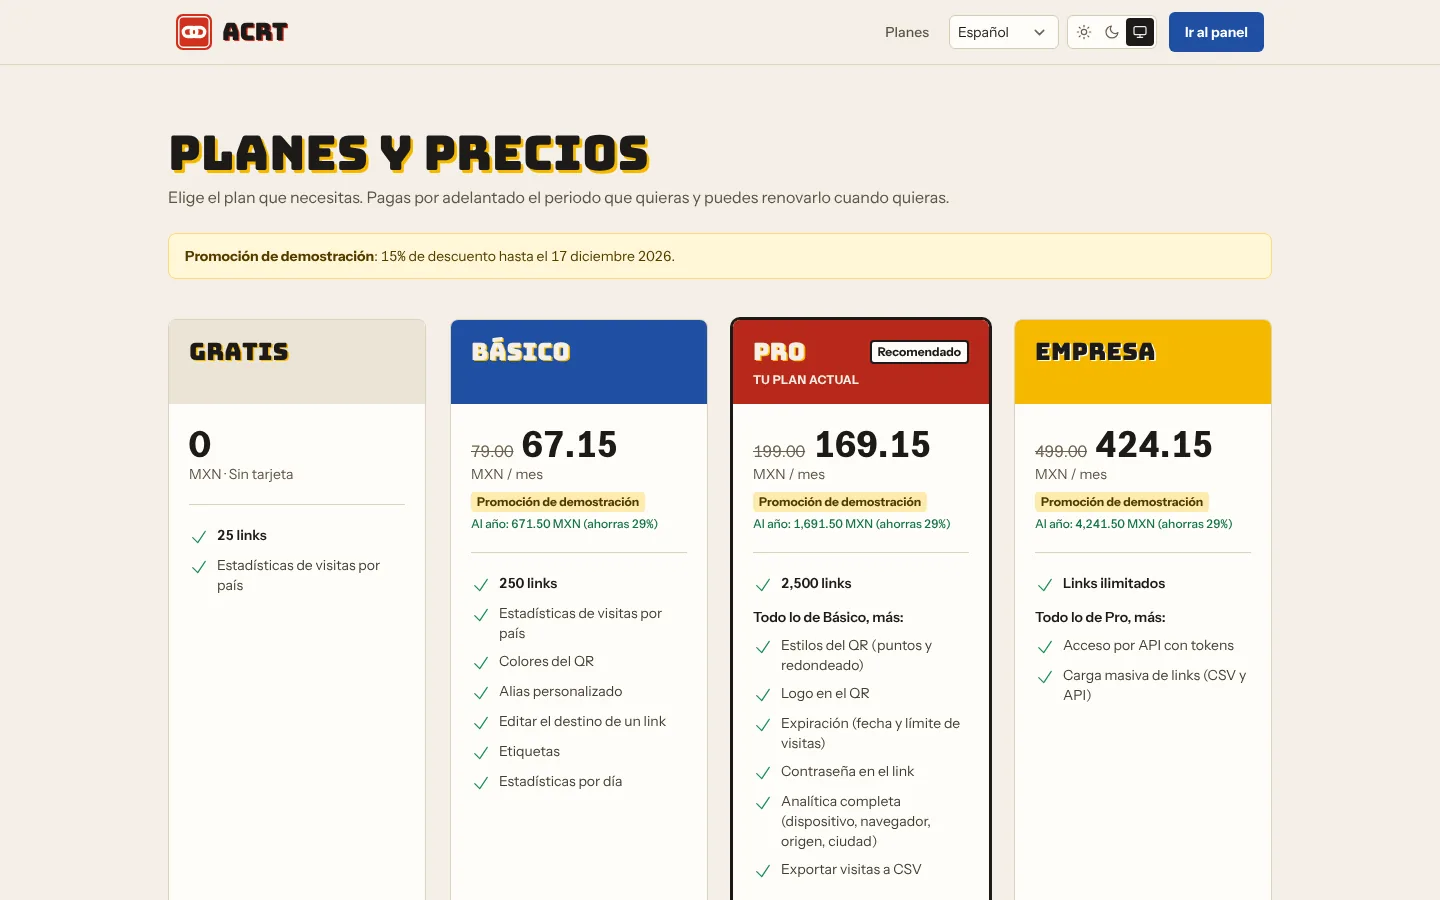
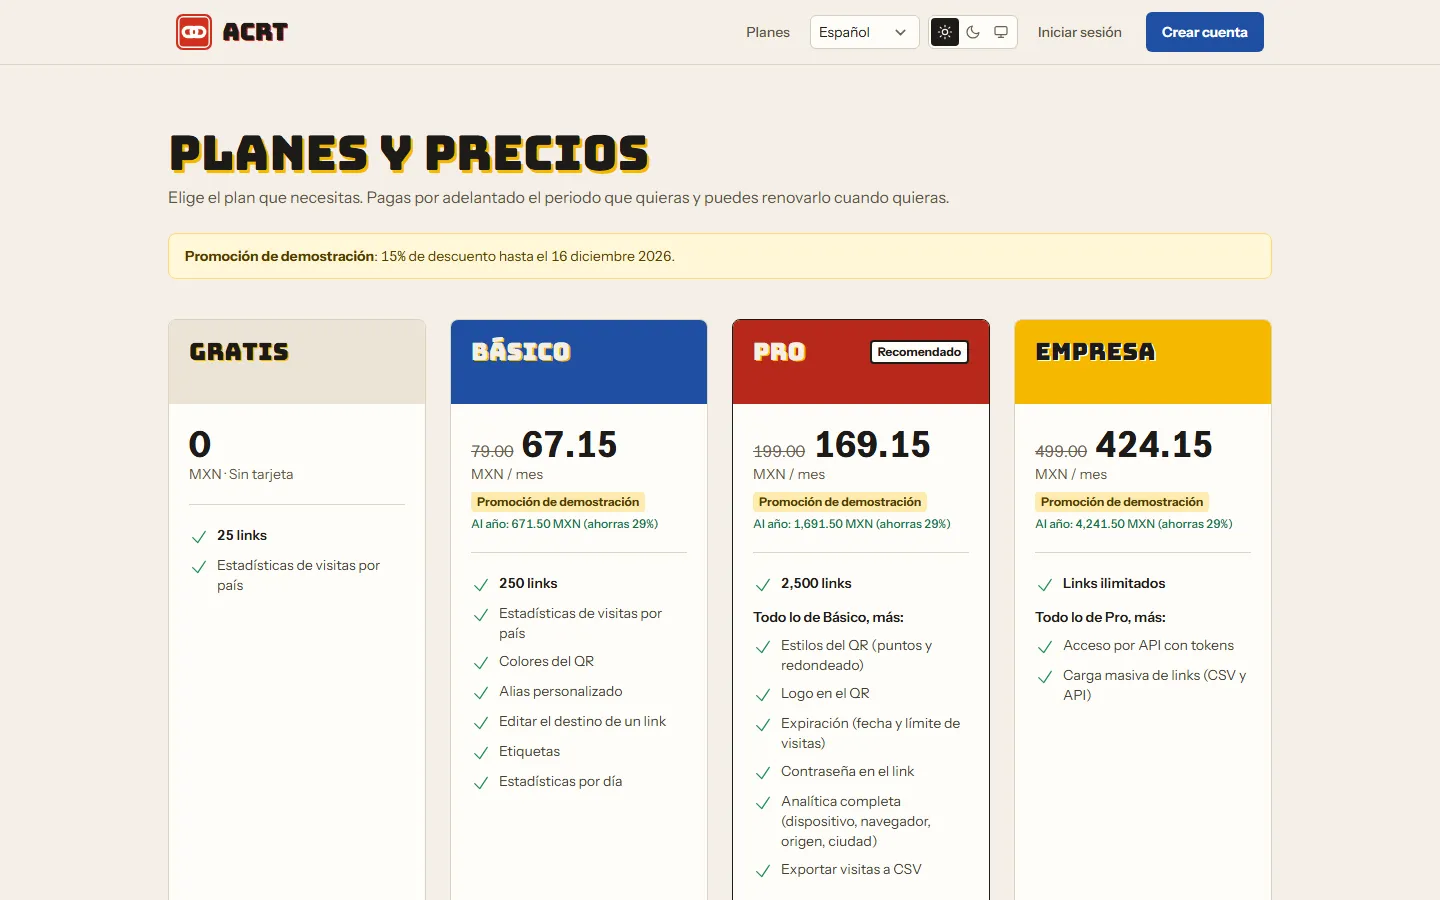
Actualiza capturas de acrt y agrega 19 vistas: landings, constructor y administración

diff --git a/portafolio/index.html b/portafolio/index.html
@@ -61,8 +61,12 @@ ul.points li::marker{color:var(--accent)}
 .thumbs button{border:1px solid var(--line);background:var(--surface);padding:0;border-radius:6px;overflow:hidden;cursor:pointer;width:clamp(64px,18%,120px);opacity:.65}
 .thumbs button:hover{opacity:.9}
 .thumbs button[aria-pressed="true"]{opacity:1;outline:2px solid var(--accent);outline-offset:1px}
-.thumbs img{display:block;width:100%;aspect-ratio:16/10;object-fit:cover;object-position:top}
+.thumbs img{display:block;width:100%;height:auto;aspect-ratio:16/10;object-fit:cover;object-position:top}
 .caption{font-size:.85rem;color:var(--muted)}
+.shot-title{margin:0;font:600 .82rem/1.3 var(--mono);color:var(--ink)}
+.thumbs .grp{flex-basis:100%;font:600 .7rem/1.2 var(--mono);letter-spacing:.08em;text-transform:uppercase;color:var(--muted);margin-top:.35rem}
+.thumbs .grp:first-child{margin-top:0}
+.gallery .phones{margin-top:.5rem}
 .phones{display:grid;grid-template-columns:repeat(auto-fit,minmax(min(100%,150px),1fr));gap:clamp(.6rem,1.5vw,1rem);align-items:start}
 .phone{margin:0;display:grid;gap:.45rem}
 .phone .scr{border:5px solid var(--navy-2);border-radius:22px;overflow:hidden;background:var(--navy-2);box-shadow:var(--shadow)}
@@ -317,8 +321,8 @@ pre.code .c{color:#7f93ad} pre.code .k{color:#ffb27a} pre.code .s{color:#8fd3c1}
     <span class="status"><span class="es">En producción · Web + API</span><span class="en">In production · Web + API</span></span>
     <h2><span class="es">Acortador de enlaces con QR y analítica</span><span class="en">Link shortener with QR codes and analytics</span></h2>
     <p class="summary">
-      <span class="es">Cada persona crea enlaces cortos de seis caracteres, ve sus visitas por día, país, ciudad, dispositivo y navegador, y descarga el código QR. Está disponible en español, inglés, portugués y francés, y se usa desde el navegador o desde una API con tokens.</span>
-      <span class="en">Each person creates six-character short links, sees visits per day, country, city, device and browser, and downloads the QR code. It is available in Spanish, English, Portuguese and French, and can be used from the browser or from a token-based API.</span>
+      <span class="es">Cada persona crea enlaces cortos de seis caracteres, ve sus visitas por día, país, ciudad, dispositivo y navegador, y descarga el código QR. Está disponible en español, inglés, portugués y francés, y se usa desde el navegador o desde una API con tokens. Un panel de administración maneja planes, usuarios, promociones, cupones, pagos y las landings públicas.</span>
+      <span class="en">Each person creates six-character short links, sees visits per day, country, city, device and browser, and downloads the QR code. It is available in Spanish, English, Portuguese and French, and can be used from the browser or from a token-based API. An administration panel handles plans, users, promotions, coupons, payments and the public landing pages.</span>
     </p>
     <dl class="brief">
       <div><dt><span class="es">El reto</span><span class="en">The challenge</span></dt><dd><span class="es">Ofrecer un acortador con analítica y QR que cobre por periodo, sin suscripciones automáticas, y que siga siendo barato de atender en un hosting compartido aunque crezca el tráfico.</span><span class="en">Offer a shortener with analytics and QR codes that charges by period, without automatic subscriptions, and that stays cheap to serve on shared hosting as traffic grows.</span></dd></div>
@@ -330,7 +334,8 @@ pre.code .c{color:#7f93ad} pre.code .k{color:#ffb27a} pre.code .s{color:#8fd3c1}
       <li><span class="es">Analítica con gráfica diaria, desgloses por país y dispositivo, bots separados de personas y exportación a CSV en el plan Pro.</span><span class="en">Analytics with a daily chart, breakdowns by country and device, bots kept apart from people, and CSV export on the Pro plan.</span></li>
       <li><span class="es">Código QR personalizable (colores con contraste verificado, estilos y logo) con descarga en PNG y SVG.</span><span class="en">Customizable QR code (colors with verified contrast, styles and logo) downloadable as PNG and SVG.</span></li>
       <li><span class="es">Planes con funciones activables por plan, cupones y promociones, y pagos por periodo prepagado con Stripe Checkout y Mercado Pago, con webhooks firmados.</span><span class="en">Plans with features enabled per plan, coupons and promotions, and prepaid period payments with Stripe Checkout and Mercado Pago, using signed webhooks.</span></li>
-      <li><span class="es">API REST con tokens y permisos por ruta, carga masiva desde CSV con revisión previa y más de 370 pruebas automatizadas.</span><span class="en">REST API with tokens and per-route permissions, bulk CSV import with a preview step, and more than 370 automated tests.</span></li>
+      <li><span class="es">API REST con tokens y permisos por ruta, carga masiva desde CSV con revisión previa y más de 400 pruebas automatizadas.</span><span class="en">REST API with tokens and per-route permissions, bulk CSV import with a preview step, and more than 400 automated tests.</span></li>
+      <li><span class="es">Constructor de landings por bloques solo para administración: 10 diseños con animaciones propias, borrador que se guarda solo, vista previa en vivo, versiones y publicación; el contenido se valida como datos, nunca como código.</span><span class="en">Administrators-only block-based landing builder: 10 designs with their own animations, an autosaved draft, live preview, versions and publishing; content is validated as data, never as code.</span></li>
     </ul>
     <div class="chips"><span>Laravel 13</span><span>Livewire 4</span><span>Jetstream</span><span>Sanctum</span><span>Tailwind CSS 4</span><span>Vite 8</span><span>Chart.js</span><span>MySQL / MariaDB</span><span>Stripe</span><span>Mercado Pago</span><span>PHPUnit</span><span>GitHub Actions</span></div>
     <div class="links"><a href="https://acrt.jbflores.com.mx" target="_blank" rel="noopener"><span class="es">Sitio en producción</span><span class="en">Live site</span> ↗</a></div>
@@ -338,16 +343,41 @@ pre.code .c{color:#7f93ad} pre.code .k{color:#ffb27a} pre.code .s{color:#8fd3c1}
   </div>
   <div class="gallery" data-gallery>
     <div class="browser">
-      <div class="urlbar"><i></i><span data-url>acrt · Inicio</span></div>
-      <img data-main src="img/acrt-landing.webp" width="1440" height="900" alt="Página de inicio de acrt con el titular «Acorta. Comparte. Mide.» y una vista previa de un enlace con QR y gráfica de visitas" loading="lazy">
+      <div class="urlbar"><i></i><span data-url>acrt.jbflores.com.mx/</span></div>
+      <img data-main src="img/acrt-inicio.webp" width="1440" height="900" alt="Página de inicio de acrt con el titular «Acorta. Comparte. Mide.» y una vista previa de un enlace con QR y gráfica de visitas" loading="lazy">
     </div>
+    <p class="shot-title"><span class="es" data-t-es>Inicio</span><span class="en" data-t-en>Home</span></p>
     <div class="thumbs">
-      <button type="button" aria-pressed="true" data-src="img/acrt-landing.webp" data-path="Inicio" data-alt="Página de inicio de acrt con el titular «Acorta. Comparte. Mide.» y una vista previa de un enlace con QR y gráfica de visitas"><img src="img/acrt-landing.webp" alt="" loading="lazy"></button>
-      <button type="button" aria-pressed="false" data-src="img/acrt-estadisticas.webp" data-path="Panel · Estadísticas" data-alt="Panel con la lista de enlaces, el código QR y las estadísticas de los últimos 7 días, con países y dispositivos"><img src="img/acrt-estadisticas.webp" alt="" loading="lazy"></button>
-      <button type="button" aria-pressed="false" data-src="img/acrt-qr.webp" data-path="Panel · Personalizar QR" data-alt="Panel con el editor de QR: colores de código y fondo, estilo y carga de logo"><img src="img/acrt-qr.webp" alt="" loading="lazy"></button>
-      <button type="button" aria-pressed="false" data-src="img/acrt-planes.webp" data-path="Planes" data-alt="Comparación de planes Gratis, Básico, Pro y Empresa con precios por periodo"><img src="img/acrt-planes.webp" alt="" loading="lazy"></button>
+      <span class="grp"><span class="es">Producto</span><span class="en">Product</span></span>
+      <button type="button" aria-pressed="true" aria-label="Inicio" data-src="img/acrt-inicio.webp" data-path="/" data-es="Inicio" data-en="Home" data-alt="Página de inicio de acrt con el titular «Acorta. Comparte. Mide.» y una vista previa de un enlace con QR y gráfica de visitas"><img src="img/acrt-inicio.webp" width="1440" height="900" alt="" loading="lazy"></button>
+      <button type="button" aria-pressed="false" aria-label="Panel de links" data-src="img/acrt-panel.webp" data-path="/dashboard" data-es="Panel de links" data-en="Links dashboard" data-alt="Panel con el acortador, la lista de links, el código QR y los botones de descarga"><img src="img/acrt-panel.webp" width="1440" height="900" alt="" loading="lazy"></button>
+      <button type="button" aria-pressed="false" aria-label="Estadísticas" data-src="img/acrt-estadisticas.webp" data-path="/dashboard" data-es="Estadísticas" data-en="Statistics" data-alt="Estadísticas de un link: resumen de la semana, gráfica de 30 días y desglose por país y dispositivo"><img src="img/acrt-estadisticas.webp" width="1440" height="900" alt="" loading="lazy"></button>
+      <button type="button" aria-pressed="false" aria-label="QR personalizable" data-src="img/acrt-qr.webp" data-path="/dashboard" data-es="QR personalizable" data-en="Customizable QR" data-alt="Editor de QR con colores del código y del fondo, estilo y carga de logo"><img src="img/acrt-qr.webp" width="1440" height="900" alt="" loading="lazy"></button>
+      <button type="button" aria-pressed="false" aria-label="Tema oscuro" data-src="img/acrt-oscuro.webp" data-path="/dashboard" data-es="Tema oscuro" data-en="Dark theme" data-alt="Panel de links en tema oscuro"><img src="img/acrt-oscuro.webp" width="1440" height="900" alt="" loading="lazy"></button>
+      <button type="button" aria-pressed="false" aria-label="Planes y precios" data-src="img/acrt-planes.webp" data-path="/planes" data-es="Planes y precios" data-en="Plans and pricing" data-alt="Comparación de planes Gratis, Básico, Pro y Empresa con precios por periodo"><img src="img/acrt-planes.webp" width="1440" height="900" alt="" loading="lazy"></button>
+      <button type="button" aria-pressed="false" aria-label="Resumen con cupón" data-src="img/acrt-resumen.webp" data-path="/pagos/resumen" data-es="Resumen con cupón" data-en="Checkout with coupon" data-alt="Resumen de compra del plan Pro con un cupón aplicado, total y medio de pago"><img src="img/acrt-resumen.webp" width="1440" height="900" alt="" loading="lazy"></button>
+      <button type="button" aria-pressed="false" aria-label="Mi plan e historial" data-src="img/acrt-facturacion.webp" data-path="/facturacion" data-es="Mi plan e historial" data-en="My plan and history" data-alt="Mi plan: vencimiento, uso de links, funciones incluidas e historial de pagos con descuento"><img src="img/acrt-facturacion.webp" width="1440" height="900" alt="" loading="lazy"></button>
+      <button type="button" aria-pressed="false" aria-label="Documentación de la API" data-src="img/acrt-api.webp" data-path="/api-docs" data-es="Documentación de la API" data-en="API documentation" data-alt="Documentación pública de la API con ejemplo de curl, permisos del token y lista de endpoints"><img src="img/acrt-api.webp" width="1440" height="900" alt="" loading="lazy"></button>
+      <span class="grp"><span class="es">Landings y constructor</span><span class="en">Landings and builder</span></span>
+      <button type="button" aria-pressed="false" aria-label="Constructor por bloques" data-src="img/acrt-constructor.webp" data-path="/admin/landings" data-es="Constructor por bloques" data-en="Block builder" data-alt="Constructor de landings: lista de bloques con subir, bajar, ocultar y duplicar, y vista previa en vivo"><img src="img/acrt-constructor.webp" width="1440" height="900" alt="" loading="lazy"></button>
+      <button type="button" aria-pressed="false" aria-label="Diseño Aurora" data-src="img/acrt-lp-aurora.webp" data-path="/lp/aurora" data-es="Diseño Aurora" data-en="Aurora design" data-alt="Landing Aurora: titular grande sobre una malla de luz y una ventana del panel"><img src="img/acrt-lp-aurora.webp" width="1440" height="900" alt="" loading="lazy"></button>
+      <button type="button" aria-pressed="false" aria-label="Diseño Terminal" data-src="img/acrt-lp-terminal.webp" data-path="/lp/terminal" data-es="Diseño Terminal" data-en="Terminal design" data-alt="Landing Terminal: un POST a la API escrito solo en una terminal verde sobre negro"><img src="img/acrt-lp-terminal.webp" width="1440" height="900" alt="" loading="lazy"></button>
+      <button type="button" aria-pressed="false" aria-label="Diseño Telón" data-src="img/acrt-lp-telon.webp" data-path="/lp/telon" data-es="Diseño Telón" data-en="Curtain design" data-alt="Landing Telón: titular gigante «Tres pasos. Sin vueltas.» en crema y naranja sobre fondo oscuro"><img src="img/acrt-lp-telon.webp" width="1440" height="900" alt="" loading="lazy"></button>
+      <button type="button" aria-pressed="false" aria-label="Diseño Radar" data-src="img/acrt-lp-radar.webp" data-path="/lp/radar" data-es="Diseño Radar" data-en="Radar design" data-alt="Landing Radar de visitas: radar con barrido y puntos por país"><img src="img/acrt-lp-radar.webp" width="1440" height="900" alt="" loading="lazy"></button>
+      <button type="button" aria-pressed="false" aria-label="Diseño El corte" data-src="img/acrt-lp-corte.webp" data-path="/lp/corte" data-es="Diseño El corte" data-en="The cut design" data-alt="Landing editorial El corte, en papel y rojo"><img src="img/acrt-lp-corte.webp" width="1440" height="900" alt="" loading="lazy"></button>
+      <button type="button" aria-pressed="false" aria-label="Diseño Cuadrícula suiza" data-src="img/acrt-lp-suizo.webp" data-path="/lp/suizo" data-es="Diseño Cuadrícula suiza" data-en="Swiss grid design" data-alt="Landing de cuadrícula suiza en blanco, negro y rojo"><img src="img/acrt-lp-suizo.webp" width="1440" height="900" alt="" loading="lazy"></button>
+      <span class="grp"><span class="es">Administración</span><span class="en">Administration</span></span>
+      <button type="button" aria-pressed="false" aria-label="Usuarios y planes" data-src="img/acrt-admin-usuarios.webp" data-path="/admin/usuarios" data-es="Usuarios y planes" data-en="Users and plans" data-alt="Administración de usuarios: plan, límite propio y permiso de administrador por persona"><img src="img/acrt-admin-usuarios.webp" width="1440" height="900" alt="" loading="lazy"></button>
+      <button type="button" aria-pressed="false" aria-label="Promociones" data-src="img/acrt-admin-promociones.webp" data-path="/admin/promociones" data-es="Promociones" data-en="Promotions" data-alt="Promociones con fechas habituales de un clic: San Valentín, Buen Fin, Black Friday"><img src="img/acrt-admin-promociones.webp" width="1440" height="900" alt="" loading="lazy"></button>
+      <button type="button" aria-pressed="false" aria-label="Pagos" data-src="img/acrt-admin-pagos.webp" data-path="/admin/pagos" data-es="Pagos" data-en="Payments" data-alt="Listado de pagos con precio de lista, descuento, cupón y medio de pago"><img src="img/acrt-admin-pagos.webp" width="1440" height="900" alt="" loading="lazy"></button>
+      <button type="button" aria-pressed="false" aria-label="Configuración" data-src="img/acrt-admin-config.webp" data-path="/admin/configuracion" data-es="Configuración" data-en="Settings" data-alt="Configuración del sistema: plan por defecto, landing de inicio, moneda y modo de cada proveedor de cobro"><img src="img/acrt-admin-config.webp" width="1440" height="900" alt="" loading="lazy"></button>
     </div>
-    <p class="caption"><span class="es">Capturas de una cuenta de demostración local, con datos de prueba.</span><span class="en">Screenshots from a local demo account, with test data.</span></p>
+    <div class="phones">
+      <figure class="phone"><div class="scr"><img src="img/acrt-movil-inicio.webp" width="600" height="1298" alt="Inicio de acrt en teléfono con el titular y el ejemplo de link con QR" loading="lazy"></div><figcaption><span class="es">Inicio</span><span class="en">Home</span></figcaption></figure>
+      <figure class="phone"><div class="scr"><img src="img/acrt-movil-panel.webp" width="600" height="1298" alt="Panel de links en teléfono con el acortador y la lista de links" loading="lazy"></div><figcaption><span class="es">Panel</span><span class="en">Dashboard</span></figcaption></figure>
+      <figure class="phone"><div class="scr"><img src="img/acrt-movil-planes.webp" width="600" height="1298" alt="Página de planes en teléfono con la promoción vigente y el plan Gratis" loading="lazy"></div><figcaption><span class="es">Planes</span><span class="en">Plans</span></figcaption></figure>
+    </div>
+    <p class="caption"><span class="es">Capturas de una instalación local con datos de demostración; se muestra el dominio de producción. Las vistas de administración son las del panel solo para administradores.</span><span class="en">Screenshots from a local install with demo data, showing the production domain. The administration views belong to the administrators-only panel.</span></p>
   </div>
 </article>
 
@@ -443,6 +473,8 @@ document.querySelectorAll('[data-gallery]').forEach(function(g){
   g.querySelectorAll('.thumbs button').forEach(function(b){
     b.addEventListener('click',function(){
       main.src=b.dataset.src; main.alt=b.dataset.alt;
+      var te=g.querySelector('[data-t-es]'), tn=g.querySelector('[data-t-en]');
+      if(te&&b.dataset.es){te.textContent=b.dataset.es; tn.textContent=b.dataset.en;}
       var p=b.dataset.path; url.textContent = p.charAt(0)==='/' ? base+p : base+' / '+p;
       g.querySelectorAll('.thumbs button').forEach(function(x){x.setAttribute('aria-pressed',String(x===b));});
     });

diff --git a/index.html b/index.html
@@ -52,7 +52,7 @@
 <a class="card" href="portafolio/#complementarias"><h3><span class="es">Actividades Complementarias</span><span class="en">Complementary Activities</span></h3><p><span class="es">Sistema de gestión académica construido sobre la plataforma modular reutilizable.</span><span class="en">Academic management system built on the reusable modular platform.</span></p></a>
 <a class="card" href="portafolio/#plantilla-angular"><h3><span class="es">Plataforma modular con Angular</span><span class="en">Angular modular platform</span></h3><p><span class="es">Frontend Angular 22 con componentes standalone, CRUD dinámico y API PHP desacoplada.</span><span class="en">Angular 22 frontend with standalone components, dynamic CRUD and a decoupled PHP API.</span></p></a>
 <a class="card" href="portafolio/#plantilla"><h3><span class="es">Plataforma modular de sistemas</span><span class="en">Modular systems platform</span></h3><p><span class="es">Constructores de módulos CRUD y de tableros, reglas de negocio, flujos de estados con aprobaciones en cadena, permisos y documentos PDF sobre JB Framework.</span><span class="en">CRUD module and dashboard builders, business rules, workflows with approval chains, permissions and PDF documents powered by JB Framework.</span></p></a>
-<a class="card" href="portafolio/#acrt"><h3><span class="es">Acortador de enlaces con QR y API</span><span class="en">Link shortener with QR codes and API</span></h3><p><span class="es">Links cortos con planes, analítica por país y dispositivo, carga masiva y pagos con Stripe o Mercado Pago.</span><span class="en">Short links with plans, analytics by country and device, bulk import and Stripe or Mercado Pago payments.</span></p></a>
+<a class="card" href="portafolio/#acrt"><h3><span class="es">Acortador de enlaces con QR y API</span><span class="en">Link shortener with QR codes and API</span></h3><p><span class="es">Links cortos con planes, analítica por país y dispositivo, carga masiva, pagos con Stripe o Mercado Pago y un constructor de landings.</span><span class="en">Short links with plans, analytics by country and device, bulk import, Stripe or Mercado Pago payments and a landing page builder.</span></p></a>
 </div>
 <p class="note"><span class="es">El portafolio distingue sistemas con código privado, proyectos en desarrollo y repositorios públicos que puedes revisar.</span><span class="en">The portfolio distinguishes private-code systems, projects in development and public repositories you can inspect.</span></p>
 </div></section>
